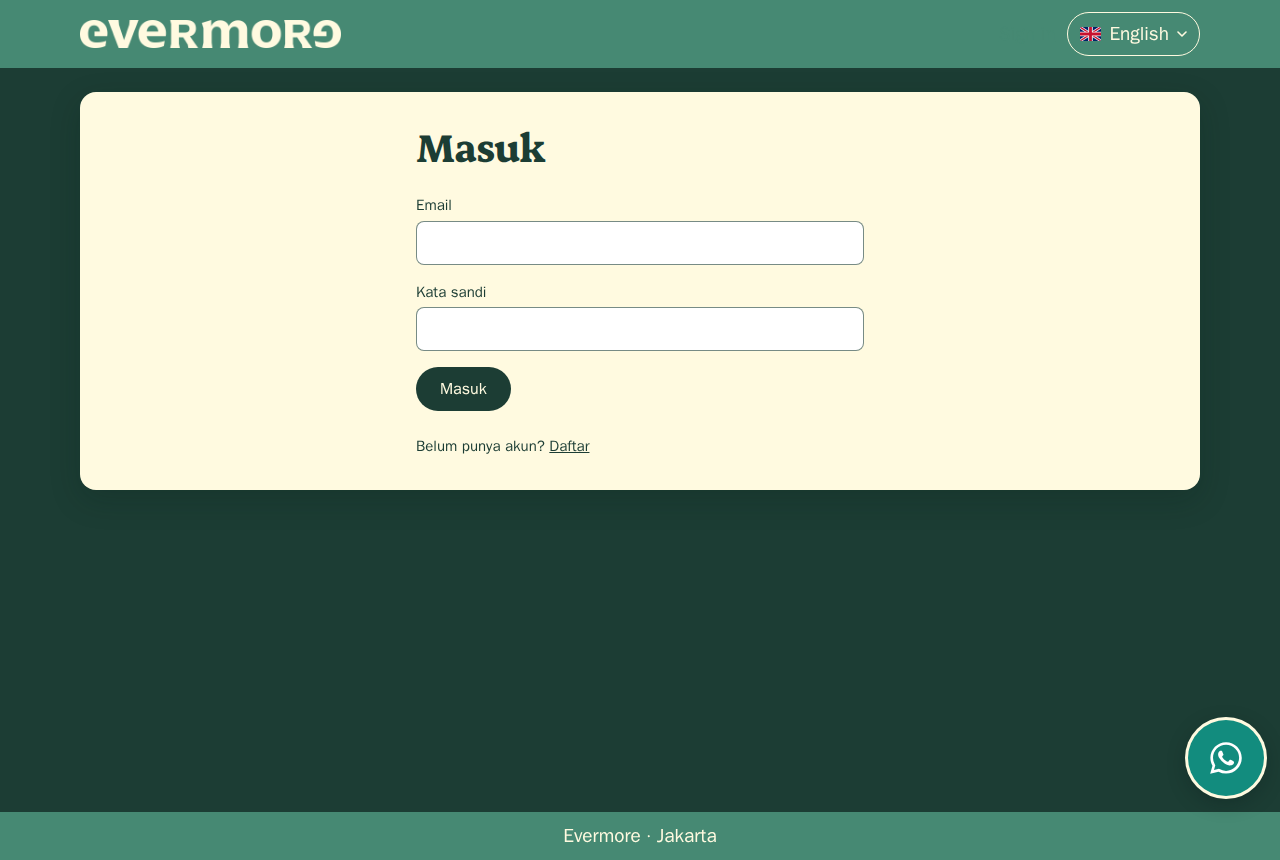
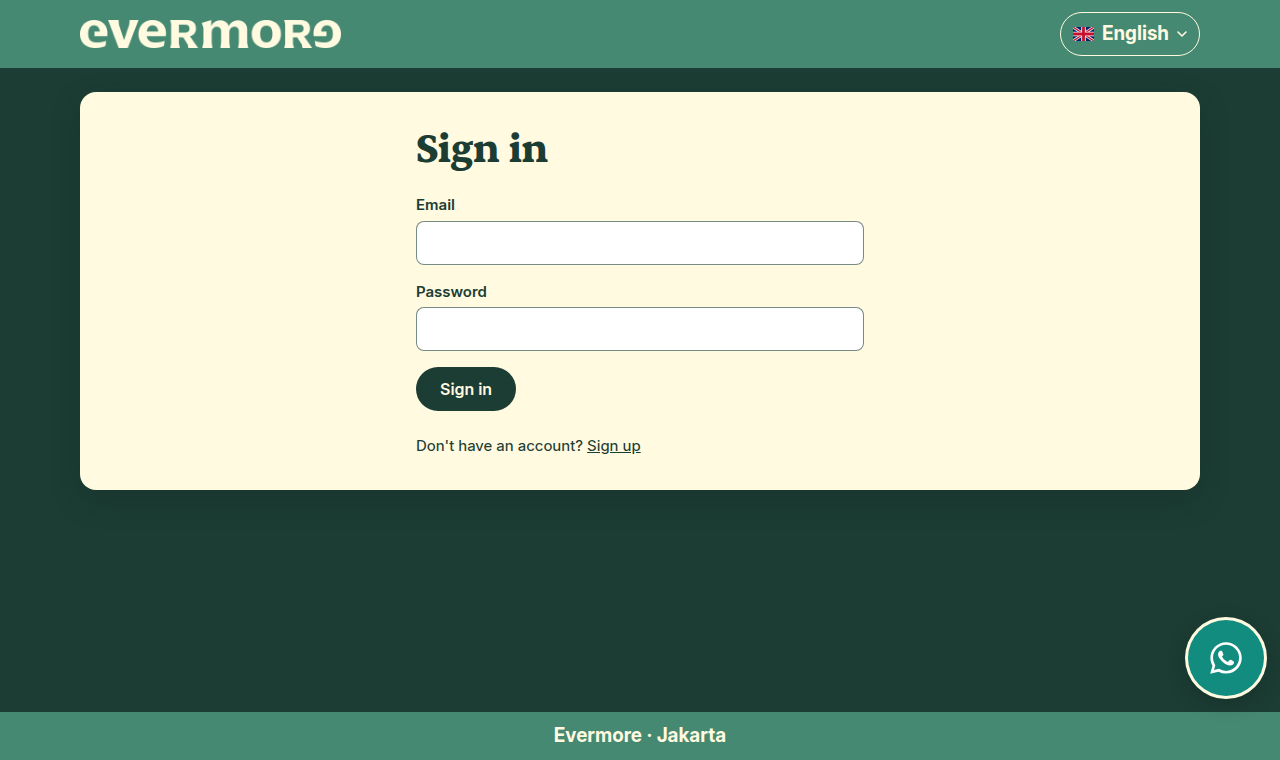
docs: correct the screenshot claim, and drop four stale captures
The previous commit said the Chinese app render was "screenshot in
docs/screenshots/". It was not — spa-login.png there was the English capture
taken before the page translations landed. The Chinese one is added now as
spa-login-zh.png, and spa-login.png is refreshed to the post-translation
English render.

Also deleted spa-menu, spa-order, spa-cart-mobile and spa-admin-payments. They
were taken on 2026-08-13 and still show the beige ground, the text wordmark and
untranslated copy, so anyone reading docs/screenshots/ to see the current UI
would have been misled by four of the nine files. Re-taking them needs a
signed-in session that headless --screenshot cannot establish on its own, so
the step is written down in RUN-WHEN-BACK §B rather than left implied.

Changed region(s): [[0.0625, 0.1513, 0.9375, 0.6658], [0.0, 0.0, 1.0, 0.1211], [0.0, 0.7868, 1.0, 0.9987]]

diff --git a/docs/RUN-WHEN-BACK.md b/docs/RUN-WHEN-BACK.md
@@ -30,6 +30,27 @@ Not `http://192.168.88.101/` — port 80 on the bare IP is still ruuma's
 Keep the existing `192.168.88.0/24` rule; it covers anything on the physical
 LAN. Both rules go away when the site moves to 443 (`docs/14` §8a).
 
+## B. Re-take the signed-in screenshots
+
+The four authenticated-screen captures were deleted on 2026-08-18: they dated
+from before the brand pass and the translations, so they showed a UI that no
+longer exists. Everything reachable without a session — the public pages in all
+three languages, the 404, the login screen — has been re-captured.
+
+Re-taking the rest needs a real session in the browser, which headless
+`--screenshot` cannot set up on its own:
+
+```bash
+cd /home/dev/projects/healthy_catering
+# Sign in as a seeded customer, then drive /app/menu, /app/orders,
+# /app/packages and /app/admin/payments with a browser that can run script —
+# the session lives in localStorage under the key the SPA sets, so a
+# screenshot-only run lands on the login page instead.
+```
+
+Not urgent, and not a blocker for anything. It matters the next time someone
+reads `docs/screenshots/` expecting it to show the current UI.
+
 ## 0. What is already done — do NOT redo these
 
 The build session completed the environment setup that this file previously

diff --git a/docs/PROGRESS.md b/docs/PROGRESS.md
@@ -97,6 +97,14 @@ HTML (verified with `curl`), robots.txt, sitemap.xml, JSON-LD.
 **Verified by looking at it**: screenshots at 360px and 1280px in
 `docs/screenshots/`, fonts confirmed resolved from the DOM.
 
+**Screenshot coverage, 2026-08-18.** The four authenticated-screen captures
+(`spa-menu`, `spa-order`, `spa-cart-mobile`, `spa-admin-payments`) were deleted
+rather than kept: they were taken on 2026-08-13 and still showed the beige
+ground, the text wordmark and the untranslated UI, so as documentation they
+were actively misleading. Re-taking them needs a signed-in session in the
+headless browser — added to `RUN-WHEN-BACK.md` §B. The login screen, which
+needs no session, is captured in both English and Chinese.
+
 **Trilingual, 2026-08-18 (Steven).** Indonesian, English and Simplified
 Chinese, with a flag-and-name language selector on both surfaces. Public pages
 are path-prefixed (`/`, `/en/`, `/zh/`) with hreflang alternates and a
